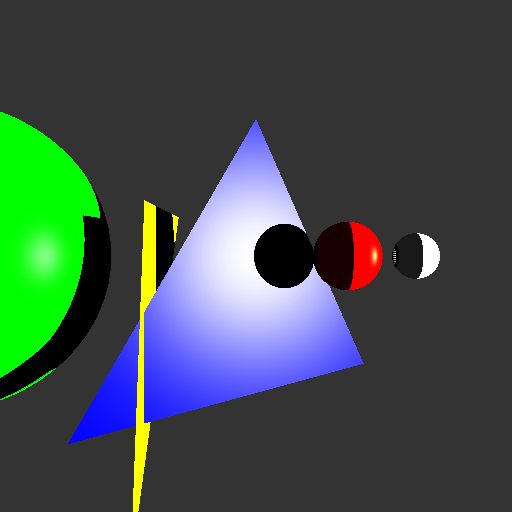
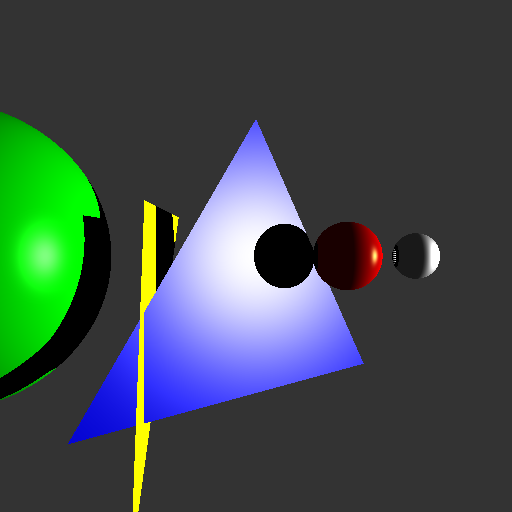
The shadow work better with one of the intersect methods and the actual geo works better with the other. But they both look perfect but neither is working perfect... what is going on?

diff --git a/src/rayTracer/Triangle.java b/src/rayTracer/Triangle.java
@@ -32,29 +32,17 @@ public class Triangle extends Shape {
 	public Point3D intersect(Ray3D ray) {
 		Point3D r0 = ray.getOrigin();
 		Point3D rd = ray.getDirection().normalize();
-		double x0 = r0.getX();
-		double y0 = r0.getY();
-		double z0 = r0.getZ();
-		
-		double xd = rd.getX();
-		double yd = rd.getY();
-		double zd = rd.getZ();
-
 		Point3D n = getNormal(null).normalize();
-		double a = n.getX();
-		double b = n.getY();
-		double c = n.getZ();
-		
 		
 		/*
 		 * calculate distance from (0,0,0) to plane
 		 * We should be able to do this by getting a vector from on of the triangle points to the origin. Next we need to dot project it to the normal vector
 		 */
-		double d = n.multiply(this.a.subtract(new Point3D(0,0,0)).dotProduct(n)).magnitude();
-		//System.out.println("d = " + d + " and distance is " + distanceToOrigin());
+		Point3D toOrigin = new Point3D(0,0,0).subtract(this.a);
+		double d = n.multiply(toOrigin.dotProduct(n)).magnitude();
 		
-		double tNum = -(a*x0 + b*y0 + c*z0 + d);
-		double tDen = (a*xd + b*yd + c*zd);
+		double tNum = -(n.dotProduct(r0) + d);
+		double tDen = n.dotProduct(rd);
 		
 		if(tDen == 0){
 			return null;

diff --git a/src/rayTracer/Shape.java b/src/rayTracer/Shape.java
@@ -15,7 +15,7 @@ public abstract class Shape {
 	protected double indexOfRefraction;
 	protected Color reflectInt;
 	protected Color refractInt;
-	public boolean cheat;
+	public boolean shadowing;
 	
 	public Shape(int type, Color reflectInt){
 		this(type, new Color(0,0,0), new Color(1,1,1), 32);

diff --git a/src/rayTracer/Ray3D.java b/src/rayTracer/Ray3D.java
@@ -6,8 +6,10 @@ public class Ray3D {
 
 	private Point3D origin;
 	private Point3D direction;
+	public double indexOfRefraction;
 	
 	public Ray3D(Point3D origin, Point3D direction){
+		indexOfRefraction = 1.0003;
 		this.origin = origin;
 		this.direction = direction;
 	}

diff --git a/src/rayTracer/Sphere.java b/src/rayTracer/Sphere.java
@@ -37,7 +37,7 @@ public class Sphere extends Shape {
 	@Override
 	public Point3D intersect(Ray3D ray) {
 		// TODO Auto-generated method stub
-		if(cheat){
+		if(shadowing){
 			return geometricIntersection(ray);
 		} else {
 			return quadraticIntersection(ray);
